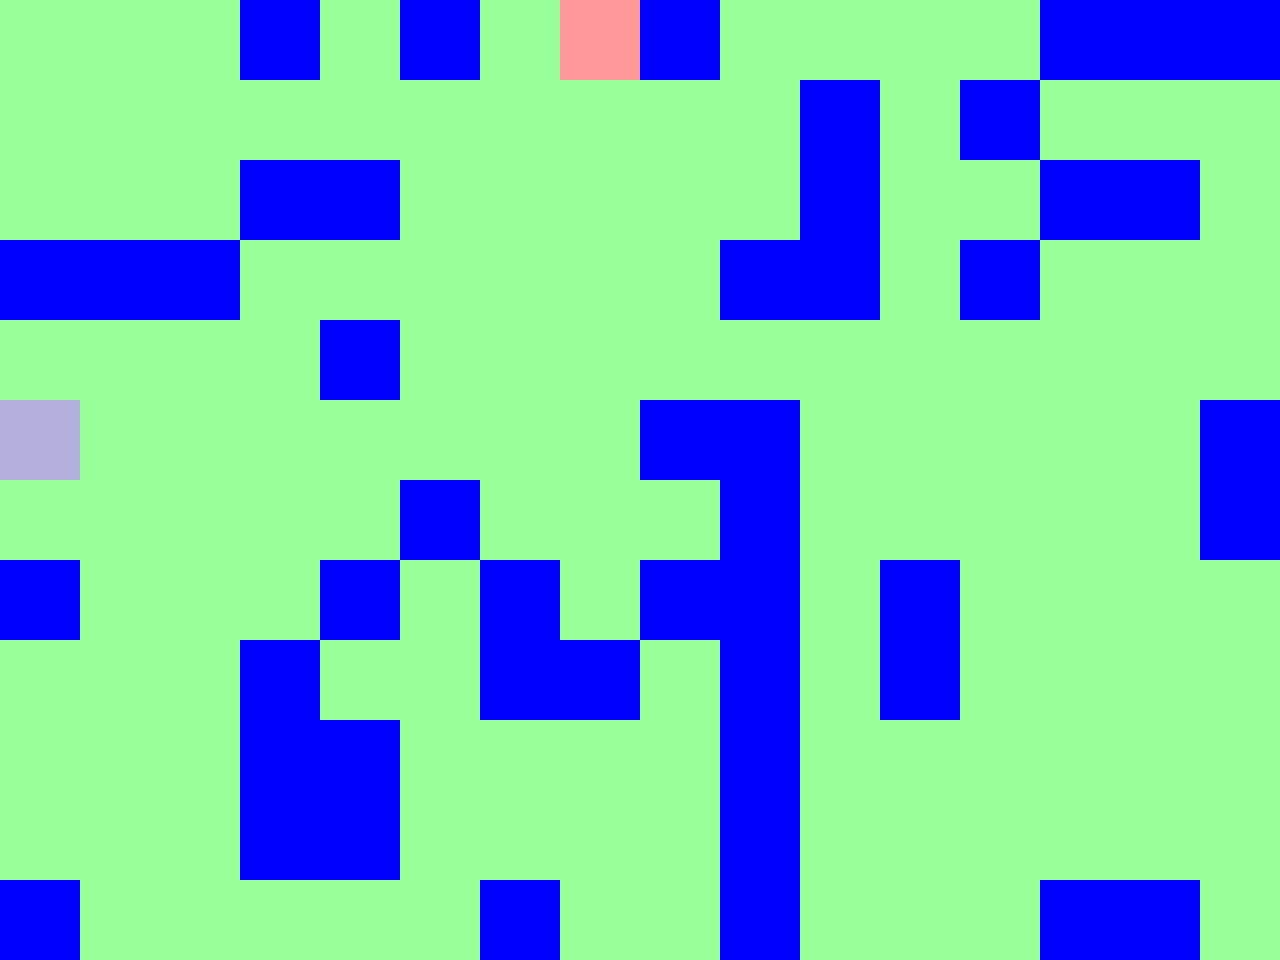
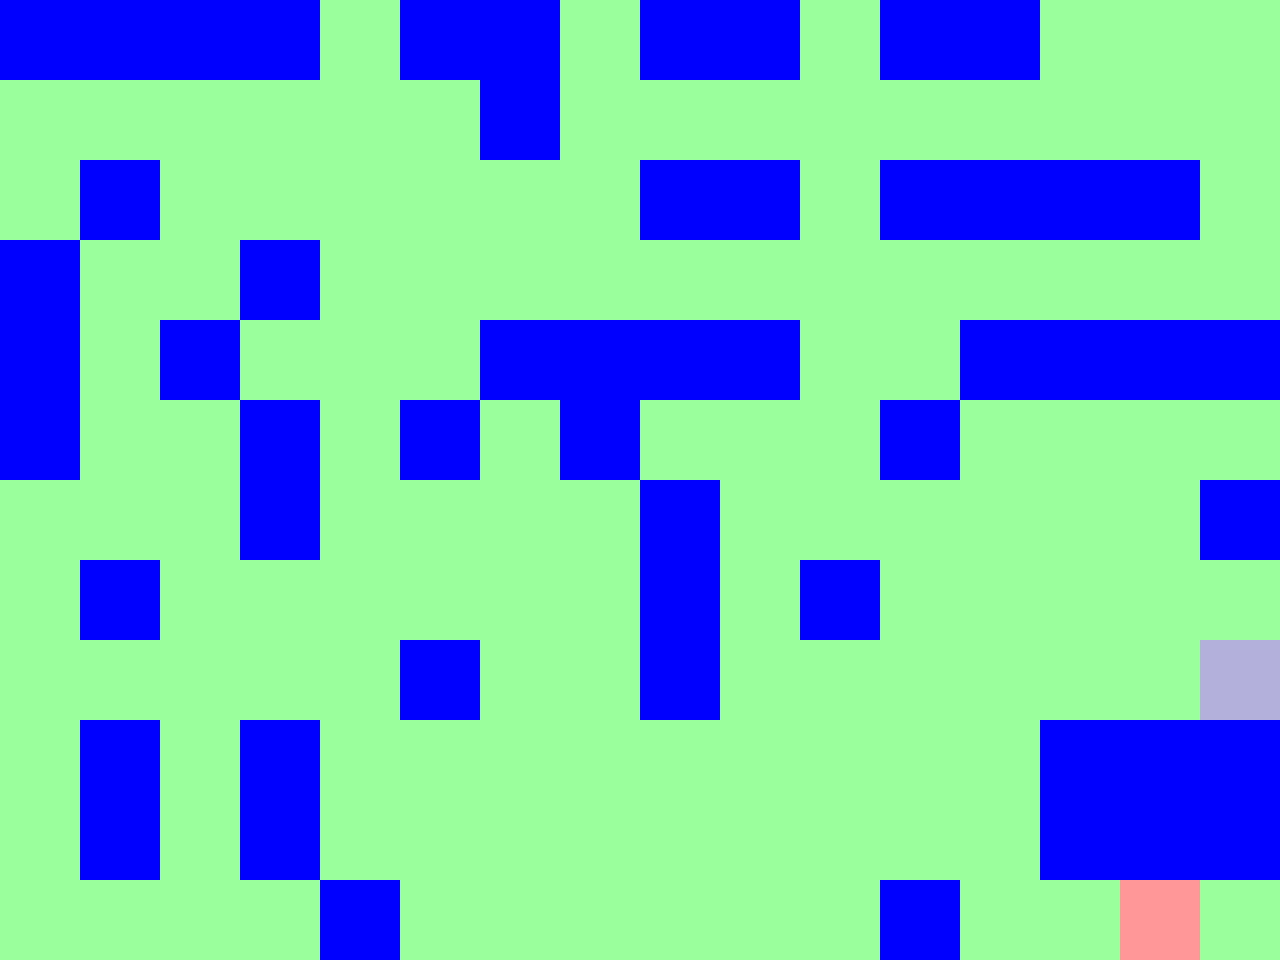
added exit files

diff --git a/src/wfc/overlap.rs b/src/wfc/overlap.rs
@@ -4,10 +4,9 @@ use rand::prelude::IndexedRandom;
 use rand::seq::SliceRandom;
 use std::collections::HashMap;
 use std::collections::VecDeque;
+use std::fs::File;
+use std::io::Write;
 use std::path::Path;
-
-//TODO:
-//exit files
 
 //sample: 5x5 ploščic, 10x10 pixlov
 const SAMPLE_TILE_SIZE: usize = 2;
@@ -364,13 +363,25 @@ fn save_output_image(tile_grid: &Vec<Vec<[u8; 4]>>, tile_size: u32, output_path:
     println!("Saved output to {}", output_path);
 }
 
+/// Writes the next level path to an exits file for the current level
+pub fn write_exits_file(current_level_name: &str, next_level_path: &str) {
+    let exits_file_path = format!("resources/levels/{}_exits.txt", current_level_name);
+    let mut file = File::create(&exits_file_path)
+        .unwrap_or_else(|_| panic!("Failed to create exits file: {}", exits_file_path));
+
+    writeln!(file, "{}", next_level_path)
+        .unwrap_or_else(|_| panic!("Failed to write to exits file: {}", exits_file_path));
+
+    println!("Exit file created: {}", exits_file_path);
+}
+
 pub fn run_overlap() {
     for k in 1..2 {
         let (patterns, frequencies) =
             extract_patterns(&format!("resources/levels/sample_{}.png", k), 3);
 
         for i in (k - 1) * 10..k * 10 {
-            let width = GRID_WIDTH as u32; // grid width in tiles <- te bi mogoče popravl v const
+            let width = GRID_WIDTH as u32; // grid width in tiles
             let height = GRID_HEIGHT as u32; // grid height in tiles
             let mut tile_grid = generate_wfc(&patterns, width, height, 3);
 
@@ -394,12 +405,18 @@ pub fn run_overlap() {
             place_tile(&mut tile_grid, exit_pos, EXIT_RGBA);
             place_tile(&mut tile_grid, spawn_pos, SPAWN_RGBA);
 
+            //save level image
             save_output_image(
                 &tile_grid,
                 TILE_SIZE as u32,
                 &format!("resources/levels/output_image_{}.png", i + 1),
             );
+
             //create exit file
+            write_exits_file(
+                &format!("output_image_{}", i + 1),
+                &format!("resources/levels/output_image_{}.png", i + 2),
+            );
         }
     }
 }

diff --git a/src/game.rs b/src/game.rs
@@ -426,7 +426,7 @@ impl Game {
         let mut draw_hitboxes = false;
         let mut draw_hud = true;
 
-        self.game_state = GameState::MainMenu;
+        self.game_state = GameState::Running;
 
         'running: loop {
             // event polling
